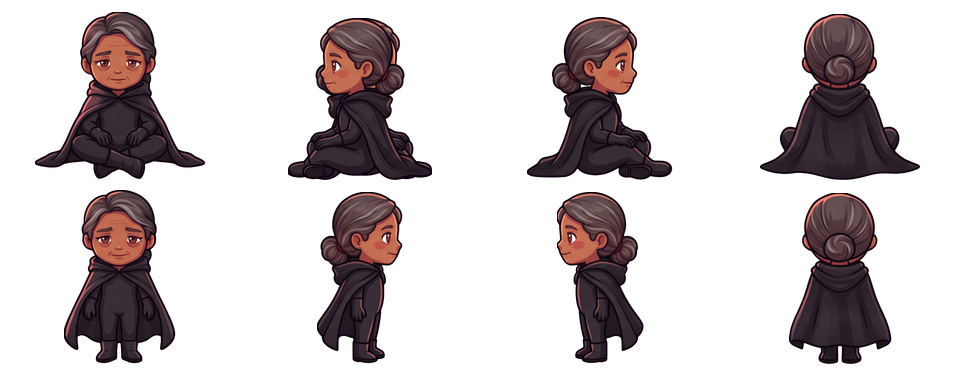
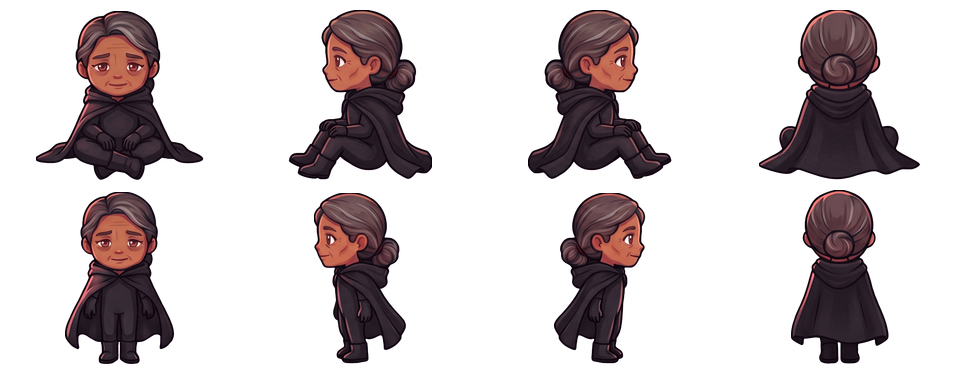
feat(images): visuels manquants du chapitre 7 (Isaure sans masque, Quetzalcoatlus, props des Cieux)

diff --git a/Godot/docs/direction-artistique.md b/Godot/docs/direction-artistique.md
@@ -113,10 +113,11 @@ chaque nouveau repli ; retirer la ligne une fois refait.
 | Chapitre 6, statue_cryolophosaure | `assets/art/props/statue_cryolophosaure.png` | nano-banana, gardé : la crête se lit un peu comme une crête simple verticale plutôt que clairement transversale (c'est une statue patinée, moins critique que sur l'espèce jouable) | Vérifier une fois la vraie espèce en jeu ; redemander si la crête ne se lit pas comme un éventail transversal |
 | Chapitre 6, neige_chemin.png | `assets/art/ground/neige_chemin.png` | nano-banana, 2 essais : se lit plus comme des cailloux dans la neige que comme un chemin tassé net (les bords ocre du chemin d'origine ont disparu) | Redemander avec des bords bien plus sombres/gris que le terrain autour, sans cailloux apparents |
 | Chapitre 6, sol_grotte_glace.png | `assets/art/ground/sol_grotte_glace.png` | nano-banana a gardé des éclats d'ambre orangés hérités de `grotte_sol.png` (texture d'origine) au lieu d'un sol de glace uni | Redemander sans les éclats d'ambre si on les trouve trop présents en jeu (actuellement jugé passable, cohérent avec le thème de l'ambre) |
-| Chapitre 7, Isaure sans masque (2e version, 11/10) | `characters/isaure_sans_masque.png` (ancienne : `isaure_sans_masque_v1.png`), `_assise.png` | nano-banana : visage de la mi-quarantaine (cernes fins, rides aux yeux, mèches grises) mais encore doux (proportions chibi du jeu) ; un essai plus poussé faisait 65 ans, écarté. **Greg à valider** | Plus de fatigue si Greg le veut, sans vieillir au-delà de 50 ans |
+| Chapitre 7, Isaure sans masque (3e version, 11/10 soir) | `characters/isaure_sans_masque.png` (anciennes : `_v1`, `_v2`), `_assise.png` (ancienne `_assise_v2.png`) | nano-banana : UN seul visage sur toutes les cases (la v2 mélangeait deux visages en rangée de face) ; mi-quarantaine à cinquantaine, cernes, rides fines, gris dans le chignon ; encore un peu doux vu la taille chibi. **Greg à valider** | Si trop vieille ou trop douce : un 4e essai ; l'assise a été tracée avec des traits de grille effacés par `eraseGridLines` |
+| Chapitre 7, vieux_harnais / masque_obsidienne / nuage_bas / arche_vent_loin | `props/vieux_harnais.png`, `masque_obsidienne.png`, `nuage_bas_1..4.png`, `arche_vent_loin.png` | nano-banana, 1er essai gardé ; le masque ressemble un peu à un galet noir à fentes (pas de relief de visage) ; `arche_vent_loin` est faite SANS génération (teinte, désaturation et flou de `arche_vent.png`) car nano-banana rendait un fond en dégradé impossible à détourer : ses détails (spirales, plumes) restent devinables | Redemander une arche lointaine nette sur fond magenta ; masque : ajouter un nez et un menton marqués |
+| Chapitre 7, Quetzalcoatlus : membranes de vol | `dinos/quetzalcoatlus_vol.png`, `_vol_face_dos.png` (anciennes : `_v1.png` ; le combat dans le ciel lit ces planches) | refaites gris-blanc (elles sortaient saumon) ; la planche de marche garde des ailes repliées crème-beige : accord moyen | Les passer en gris si on les juge trop beiges |
 | Chapitre 7, vol de profil : 2 images sur 4 identiques | `dinos/{quetzalcoatlus,hatzegopteryx,tupandactylus,tapejara}_vol.png` | nano-banana : 4 poses demandées, mais la pose « mi-haute » sortait à chaque essai avec un filé rose flou (3 essais) : cycle haut / plané / bas / plané (3 poses distinctes) | Redemander la pose mi-haute seule, nette |
 | Chapitre 7, vol face/dos : pose « ailes basses » | `dinos/*_vol_face_dos.png` | nano-banana : la 3e colonne est parfois très repliée (ailes en U) ; tupandactylus de face : 4e pose avec la tête tournée de 3/4 | Redemander ces cases |
-| Chapitre 7, Rhamphorhynchus, Hatzegopteryx, Tapejara : détails | `dinos/{rhamphorhynchus,hatzegopteryx,tapejara}*.png` | nano-banana : Rhamphorhynchus a les dents bien visibles mais la bouche toujours ouverte (air féroce), queue de dos très courte ; Hatzegopteryx de dos : crâne rond un peu aplati ; Tapejara de face : crête encore un peu plus haute que de profil | Retouches mineures si on les voit de près |
 | Chapitre 7, `chloe_vol*.png` (3e version, 11/10) | `characters/chloe_vol.png`, `chloe_vol_manteau.png` (anciennes : `_v2.png`) | Assise à califourchon : cuisse en avant, genou plié à environ 90°, une seule jambe de profil, jambes écartées de face et de dos, mains sur les poignées ; réduite à 75 % autour du point d'assise (bassin à ±2 px de la 2e version) ; de profil gauche la jambe pend presque droite ; face de `chloe_vol` : yeux fermés (rire) | Si le calage ne plaît pas : `SHRINK` dans `cieux_persos.mjs` |
 
 ## Cieux Éternels (art, chapitre 7, 11/10)
